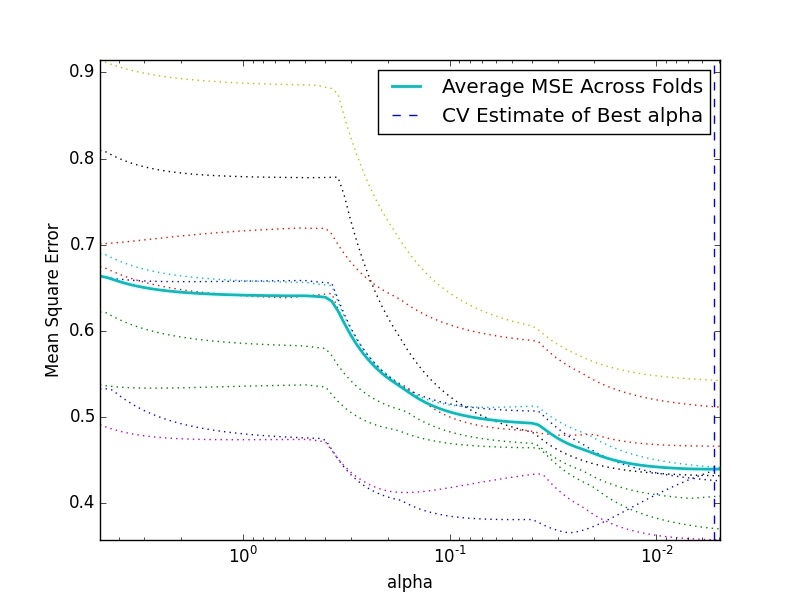
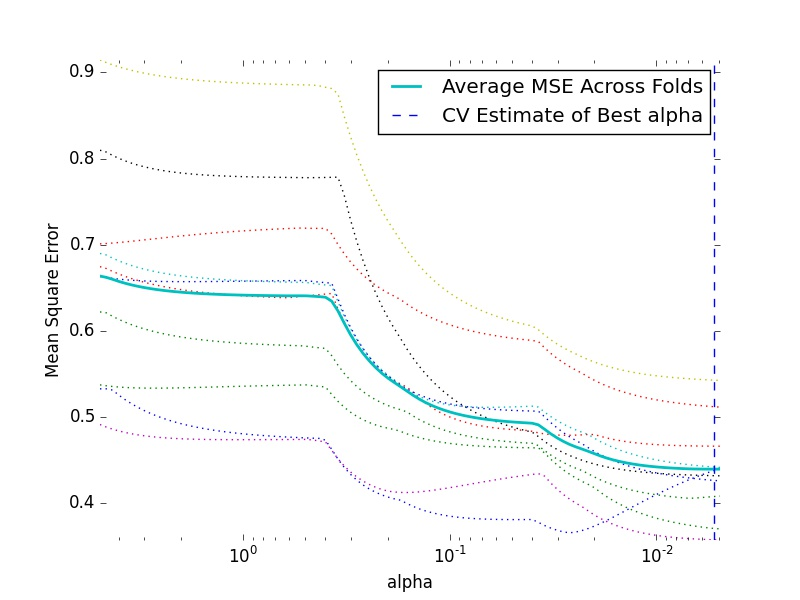
trying new graphics

Changed region(s): [[0.125, 0.09, 0.9062, 0.9], [0.125, 0.87, 0.875, 0.93]]

diff --git a/wineLassoCV.py b/wineLassoCV.py
@@ -79,10 +79,15 @@ plot.semilogx()
 plot.legend()
 ax = plot.gca()
 ax.invert_xaxis()
+ax.spines["top"].set_visible(False)
+ax.spines["bottom"].set_visible(False)
+ax.spines["right"].set_visible(False)
+ax.spines["left"].set_visible(False)
+
 plot.xlabel('alpha')
 plot.ylabel('Mean Square Error')
 plot.axis('tight')
-plot.savefig('winelassoXYunnorm.jpg')
+plot.savefig('./img/winelassoXYunnorm.jpg')
 
 #print the value of alpha that minimizes CV error
 print('alpha value that minimized CV error: ', wineModel.alpha_)
